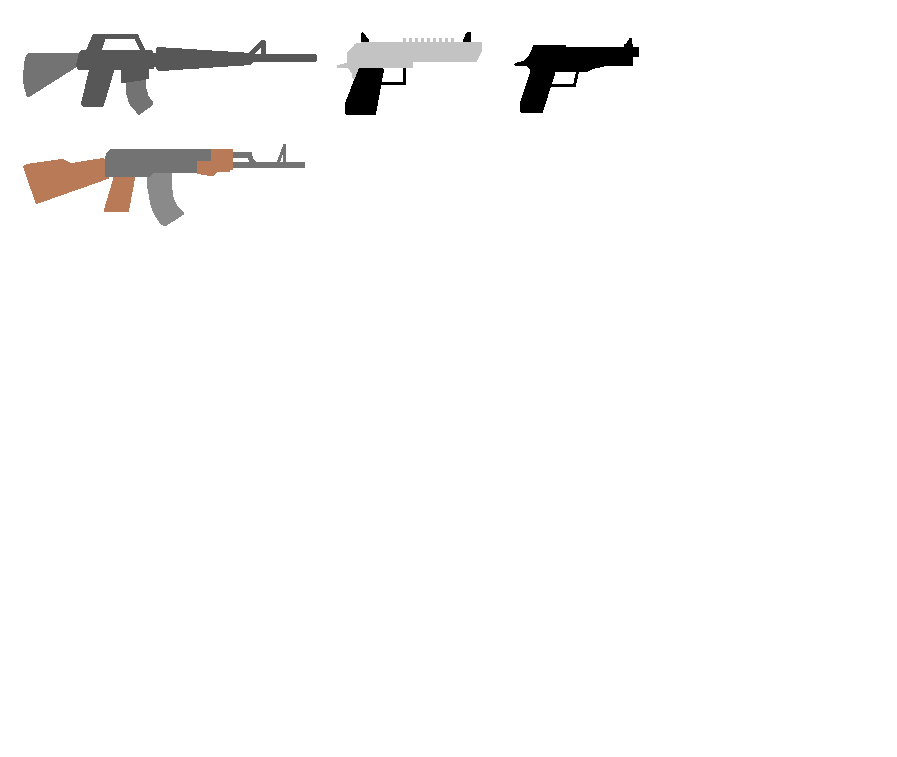
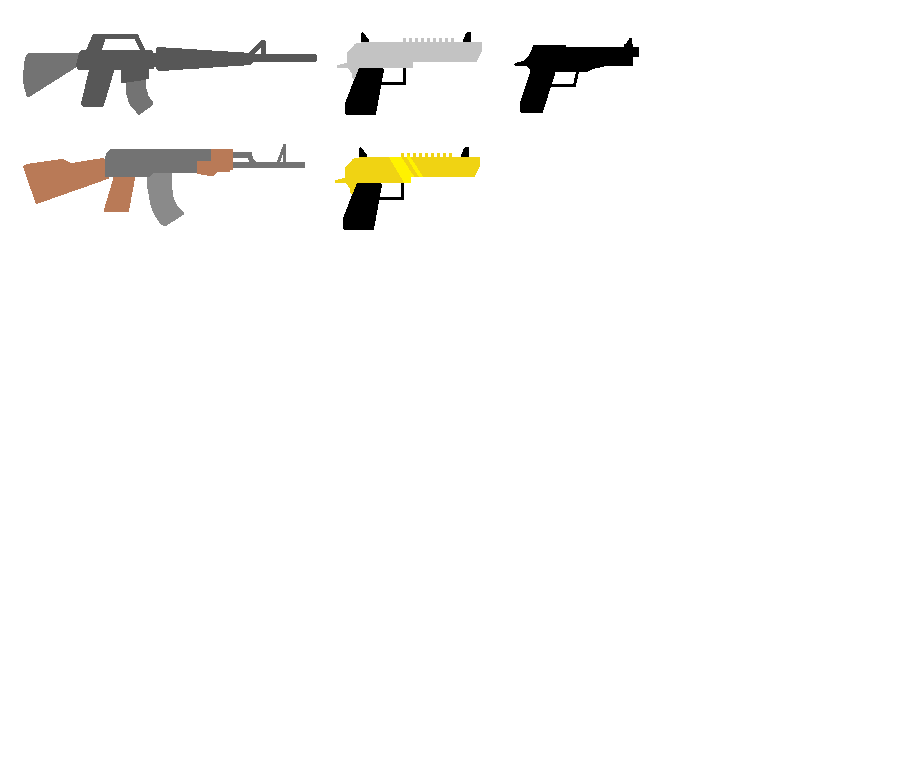
golden deagle

Changed region(s): [[0.3746, 0.1823, 0.5307, 0.3038]]

diff --git a/src/guns.ts b/src/guns.ts
@@ -233,6 +233,40 @@ export const Deagle: GunSpec = {
   movingFirstShotRecoilMax: 40.0,
 };
 
+export const Golden_Deagle: GunSpec = {
+  name: "Golden DEagle",
+  primary: false,
+  icon: "golden_deagle",
+  rightGrip: { f: 55, l: 0 },
+  leftGrip: { f: 60, l: 0 },
+  barrel: { start: 55, end: 110, width: 11 },
+  color: "#f0d313",
+  damage: 50,
+  armorPen: { l1: 0.9, l2: 0.85, l3: 0.8 },
+  zoom: 2.0,
+  speed: 0.75,
+  fire: {
+    delay: 13,
+    bulletSpeed: 35,
+    bulletLife: 60,
+    auto: false,
+    spread: 0.01,
+    magSize: 7,
+    reserveMags: 3,
+    reloadTime: 90,
+    tracerWidth: 5,
+    tracerLength: 140,
+  },
+  visualRecoil: 19,
+  recoilRecovery: 1,
+  recoilCoef: 0.17,
+  recoilGain: 15.0,
+  recoilDelay: 40,
+  movePenalty: 1.5,
+  movingFirstShotRecoilMin: 35.0,
+  movingFirstShotRecoilMax: 40.0,
+};
+
 
 /** Unarmed: hands rest out to the sides, no barrel. Shortest "range", fastest move. */
 export const UNARMED: GunSpec = {

diff --git a/src/main.ts b/src/main.ts
@@ -3,7 +3,7 @@ import { Body } from "./body.ts";
 import { BODY_RADIUS, DEFAULT_SKIN } from "./character.ts";
 import { hasLineOfSight, resolveCircleVsBox, resolveCircleVsCircle } from "./collision.ts";
 import { Gun } from "./gun.ts";
-import { Deagle, M16, AK47, M9, UNARMED } from "./guns.ts";
+import { Golden_Deagle, M16, AK47, M9, UNARMED } from "./guns.ts";
 import { GunItem, gunIcon, separateItems } from "./item.ts";
 import { ELITE_ROBOT_SKIN, Robot } from "./robot.ts";
 import { initInput, isDown, mouse, moveAxis, pointer } from "./input.ts";
@@ -43,7 +43,7 @@ const bodies: Body[] = [];
 const world = createWorld();
 
 // Some guns lying around to pick up.
-world.items.push(new GunItem(vec(-120, -80), new Gun(Deagle)));
+world.items.push(new GunItem(vec(-120, -80), new Gun(Golden_Deagle)));
 world.items.push(new GunItem(vec(80, 120), new Gun(AK47)));
 
 // Camera: position follows the player; `size` eases toward the weapon's zoom.